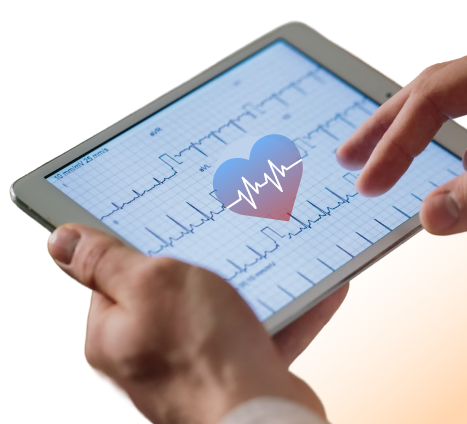
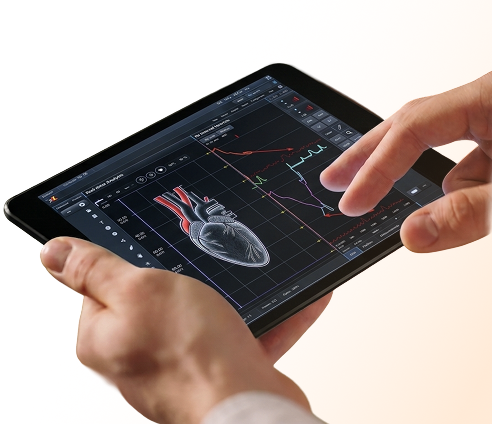
Health packages: full-bleed bone-health art and an instant hover reset
Bone-health image now sits flush to the card's top and bottom edges like the
other cards, offset right so the wider crop stays clear of the text column.
The card sweep also drops its transition on the rest state so it resets
behind the card instead of visibly sweeping back out on mouse-leave.

diff --git a/src/components/sections/health-packages/HealthPackages.module.css b/src/components/sections/health-packages/HealthPackages.module.css
@@ -458,7 +458,11 @@
 }
 
 /* Shimmer sweep — subtle, and (being a plain :hover/::before pair) only
-   ever active on the one card actually under the pointer. */
+   ever active on the one card actually under the pointer. No transition on
+   the base (rest) state: the sweep-in is eased via the transition declared
+   on the :hover/:focus-visible rule below, but on mouse-leave the base
+   rule's own transition (none) is what applies, so it resets instantly
+   behind the card instead of visibly sweeping back out. */
 .packageCard::before {
   content: "";
   position: absolute;
@@ -466,13 +470,13 @@
   z-index: 1;
   background: linear-gradient(115deg, transparent 30%, rgba(0, 0, 0, 0.06) 48%, transparent 66%);
   transform: translateX(-120%);
-  transition: transform 0.7s ease;
   pointer-events: none;
 }
 
 .packageCard:hover::before,
 .packageCard:focus-visible::before {
   transform: translateX(120%);
+  transition: transform 0.7s ease;
 }
 
 /* Width reduced 20% alongside the card (260px -> 208px) to stay in
@@ -511,14 +515,13 @@
   transform: translateX(74px);
 }
 
-/* Bone health: scaled back a little and sat on the card's bottom edge,
-   which both shrinks it and brings the right-hand side of the film into
-   view instead of cropping it away. */
+/* Bone health: sat flush against both the card's top and bottom edges
+   (height: 100% inherited from the base rule, same as the other cards),
+   and nudged right of its own anchor so the wider effective crop doesn't
+   creep over the text column. */
 .packageCardImageShort {
   width: 241px;
-  height: 218px;
-  top: auto;
-  bottom: 0;
+  transform: translateX(40px);
 }
 
 /* max-width stops the text column short of the image (208px wide, and
